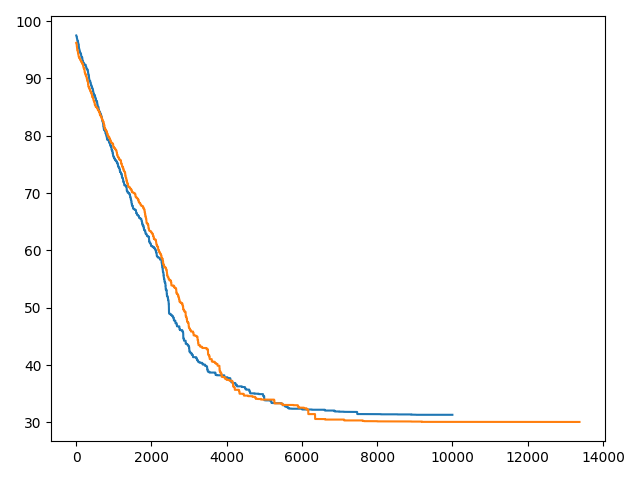
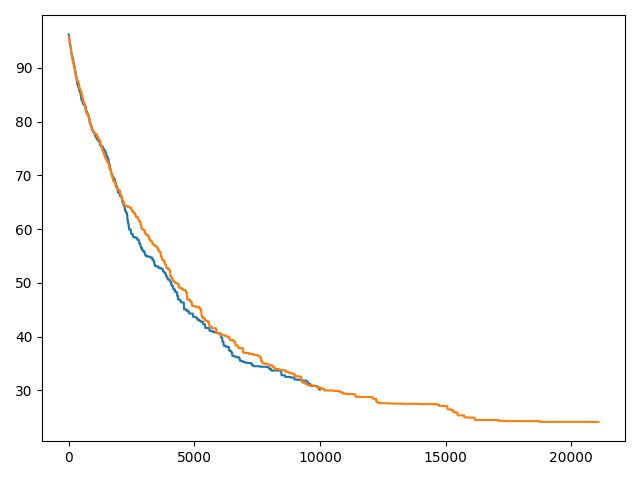
Progress

diff --git a/P3/bmb.py b/P3/bmb.py
@@ -13,9 +13,9 @@ if len(sys.argv) == 5:
     seed_asigned = int(sys.argv[3])
     lambda_var = float(sys.argv[4])
 elif len(sys.argv) == 1:
-    dataset_name = "rand"
+    dataset_name = "ecoli"
     restr_level = 10
-    seed_asigned = 131415
+    seed_asigned = 123
     lambda_var = 1
 else:
     print("Wrong number of arguments.")
@@ -283,7 +283,7 @@ final_objective = np.zeros(10)
 data['distance_cluster'] = np.nan
 data = np.asarray(data)
 limit_ev = 10000
-for iterations in range(10):
+for iterations in range(2):
     it.append([])
     ob.append([])
     centroids = update_centroids_numpy(data)
@@ -300,6 +300,8 @@ for iterations in range(10):
     sum_values_clusters = sum_instances(data)
 
     while n_evaluations < limit_ev and not repeated:
+        np.random.shuffle(possible_changes)
+
         # Get first neighbour to be able to compare it later on
         first_neigh = possible_changes[0]
 
@@ -351,6 +353,8 @@ for iterations in range(10):
             objective_value = np.mean(sum_dist/av_count) + lambda_value * total_infeasibility
             it[iterations].append(n_evaluations)
             ob[iterations].append(old_objective_value)
+            print(n_evaluations,"    ", old_objective_value)
+
             # Restore values
             if old_objective_value <= objective_value:
                 data[p_index][cluster_index] = old_cluster
@@ -358,13 +362,10 @@ for iterations in range(10):
                 av_count[old_cluster] += 1
                 av_count[new_cluster] -= 1
                 sum_dist = np.copy(old_sum)
-                # data, sum_dist = undo_distance(data, sum_dist, p_index, old_cluster, new_cluster, old_distance)
-                data, sum_dist, av_count = calculate_distance_cluster_numpy(data, centroids)
-
                 centroids, sum_values_clusters = update_centroids_optimized(data, centroids, sum_values_clusters,
                                                                             p_index, new_cluster, old_cluster, av_count)
 
-    # limit_ev = limit_ev*10
+    limit_ev = limit_ev*10
 
     centroids = update_centroids_numpy(data)
     data, sum_dist, av_count = calculate_distance_cluster_numpy(data, centroids)
@@ -394,7 +395,7 @@ print("Tasa Inf:", final_infeasibility[best_index])
 print("Agr:", final_objective[best_index])
 print("Time:", elapsed_time)
 
-# for i in range(2):
-#     plt.plot(it[i],ob[i])
-# plt.show()
+for i in range(2):
+    plt.plot(it[i],ob[i])
+plt.show()
 

diff --git a/P1/main.py b/P1/main.py
@@ -17,7 +17,7 @@ elif len(sys.argv) == 1:
     mode = "local"
     dataset_name = "ecoli"
     restr_level = 10
-    seed_asigned = 123
+    seed_asigned = 456
     lambda_var = 1
 else:
     print("Wrong number of arguments.")
@@ -361,7 +361,6 @@ if mode == "local":
         # print("eee", n_iterations)
 
         while old_objective_value <= objective_value and n_iterations < 100000:
-            n_iterations += 1
             possible_changes, neigh = get_neightbour(possible_changes)
             if neigh == first_neigh and not first_iteration:
                 repeated = True
@@ -378,6 +377,7 @@ if mode == "local":
             # Skip if the cluster only have 1 element
             if av_count[old_cluster] == 1 or old_cluster == new_cluster:
                 continue
+            n_iterations += 1
 
             total_infeasibility = total_infeasibility - row_infeasibility_numpy(data, p_index)
             av_count[old_cluster] -= 1
@@ -404,7 +404,7 @@ if mode == "local":
             # Calculate new objective value
             objective_value = np.mean(sum_dist/av_count) + lambda_value * total_infeasibility
 
-
+            print(n_iterations,"    ", old_objective_value)
 
             # Restore values
             if old_objective_value <= objective_value:
@@ -412,8 +412,6 @@ if mode == "local":
                 total_infeasibility = old_infeasibility
                 av_count[old_cluster] += 1
                 av_count[new_cluster] -= 1
-                # data, sum_dist = undo_distance(data, sum_dist, p_index, old_cluster, new_cluster, old_distance)
-                # data, sum_dist, av_count = calculate_distance_cluster_numpy(data, centroids)
                 sum_dist = np.copy(old_sum)
                 centroids, sum_values_clusters = update_centroids_optimized(data, centroids, sum_values_clusters,
                                                                             p_index, new_cluster, old_cluster, av_count)
@@ -429,7 +427,7 @@ if mode == "local":
 
     # print("For lambda var:", lambda_var)
     print("Tasa C:", np.mean(sum_dist/av_count))
-    # print("Iter:", n_iterations)
+    print("Iter:", n_iterations)
     print("Tasa Inf:", total_infeasibility)
     print("Agr:", objective_value)
     print("Time:", elapsed_time)
